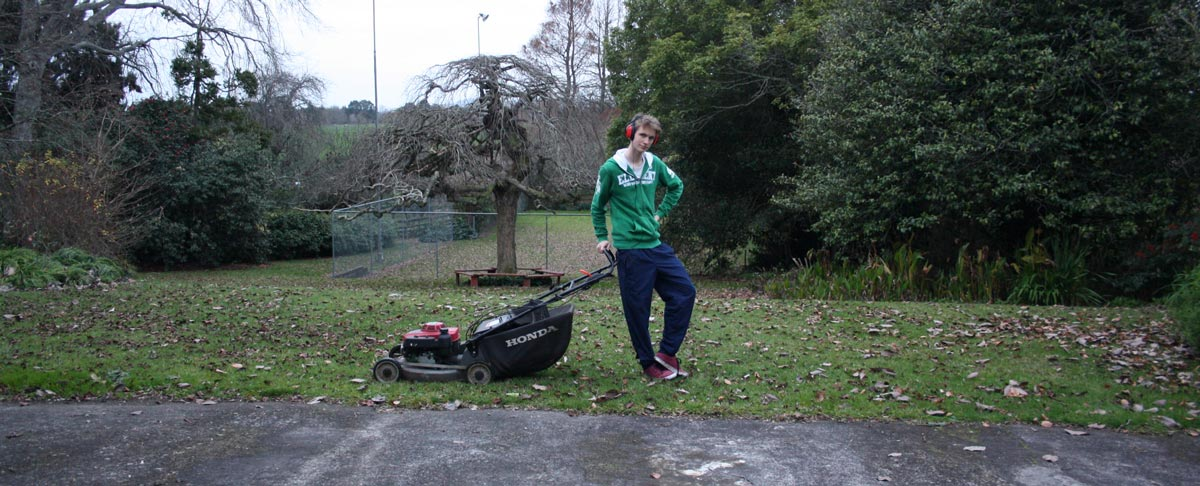
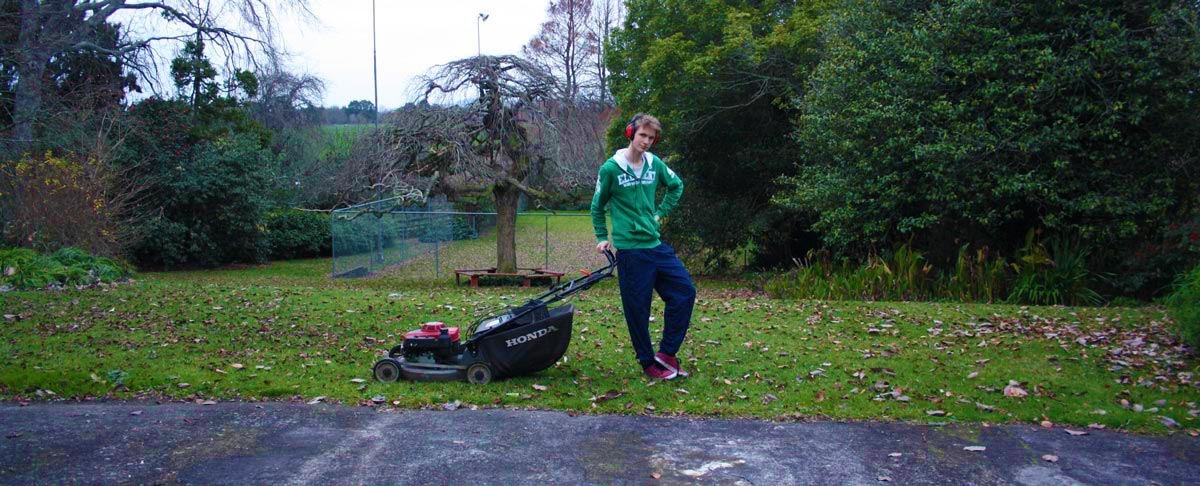
optimised images

diff --git a/_includes/aside.html b/_includes/aside.html
@@ -1,5 +1,5 @@
 <div id="aside" class="col-xs-12 col-md-3 col-lg-2">
-  <img id="sexy-beast" src="images/sexy-beast.png">
+  <img id="sexy-beast" src="images/sexy-beast.jpg">
   <h3 id="title" class="text-center">Andrew Milson</h3>
   <ul id="nav">
     <li><a href="/">HOME</a></li>
